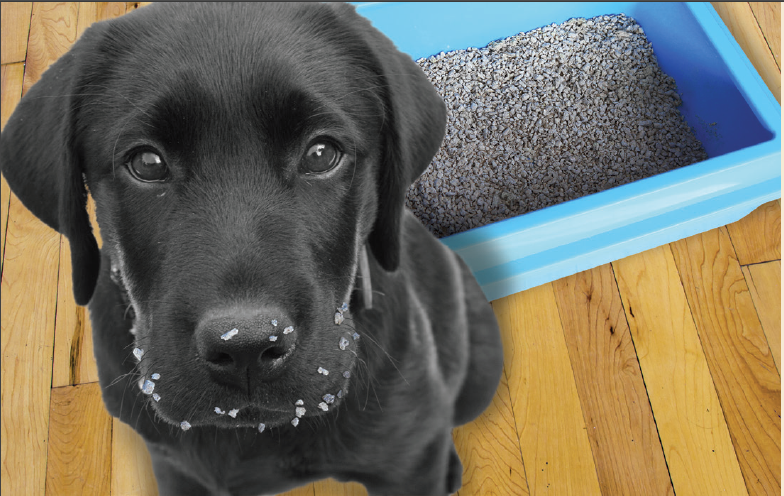
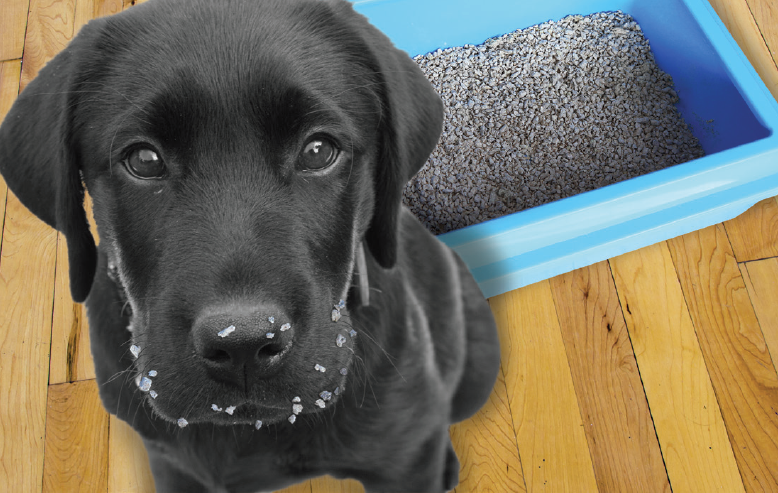
added dog image

diff --git a/Styles/style.css b/Styles/style.css
@@ -1,3 +1,8 @@
+* {
+  margin: 0;
+  padding: 0;
+}
+
 body {
   background: linear-gradient(
     to right,
@@ -22,4 +27,10 @@ div#banner-content {
 }
 div#main-content {
   padding-top: 70px;
+}
+
+#dogImage {
+  margin-top: 100px;
+  margin-right: 5px;
+  width: 50%;
 }

diff --git a/index.html b/index.html
@@ -14,7 +14,7 @@
     <div id="banner-content"></div>
   </div>
 
-
+  <img align='left' src="Styles/dog.png" id='dogImage' alt="black dog">
 
 
 </body>
